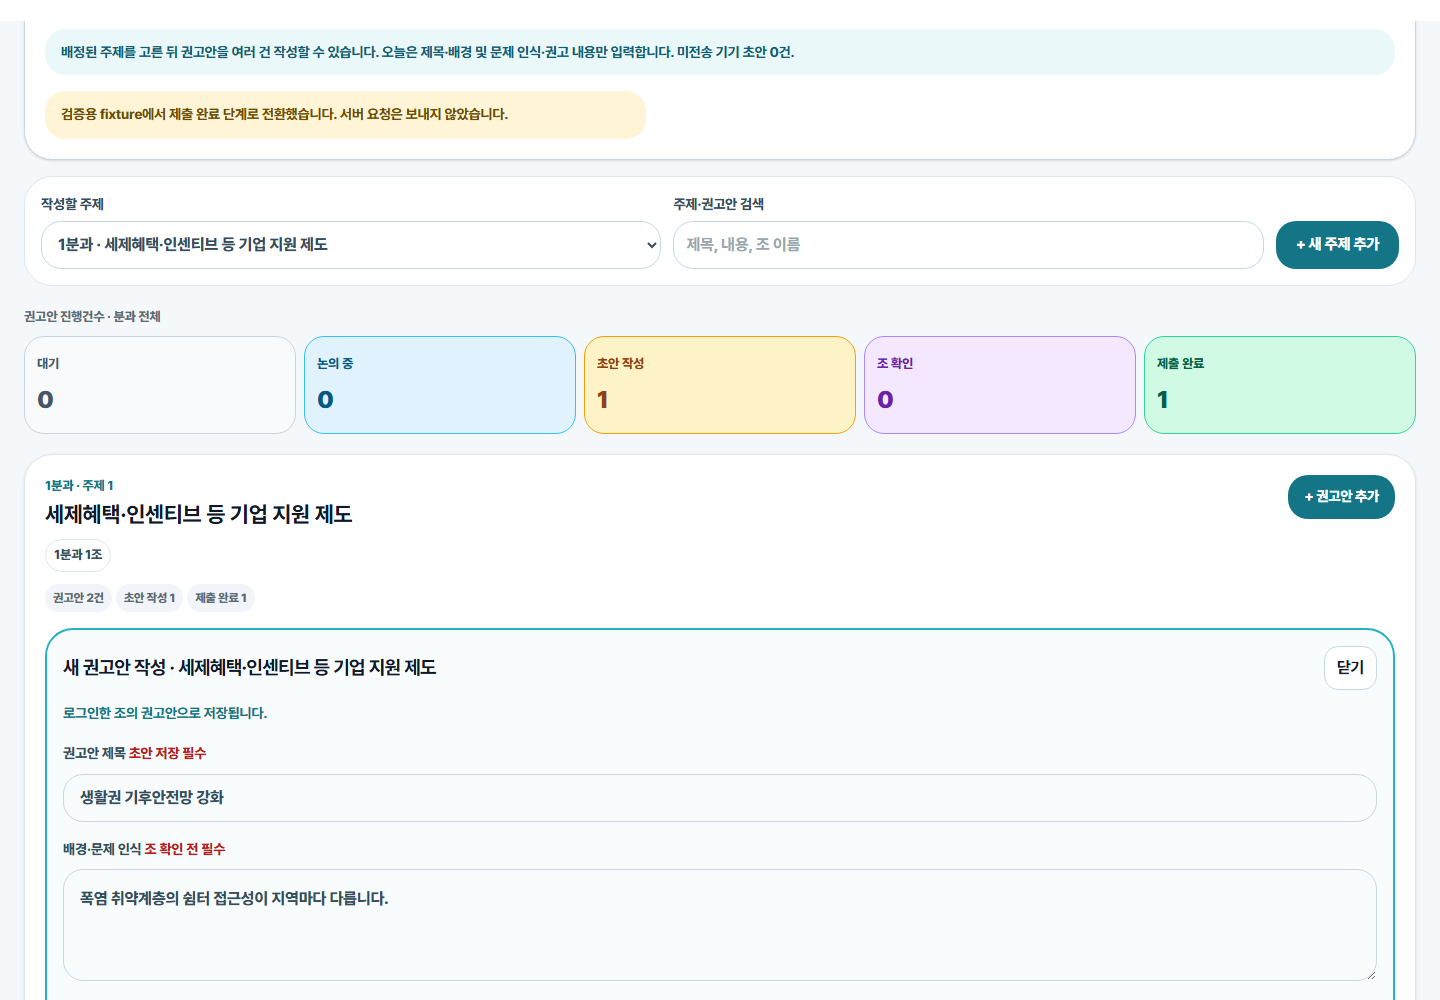
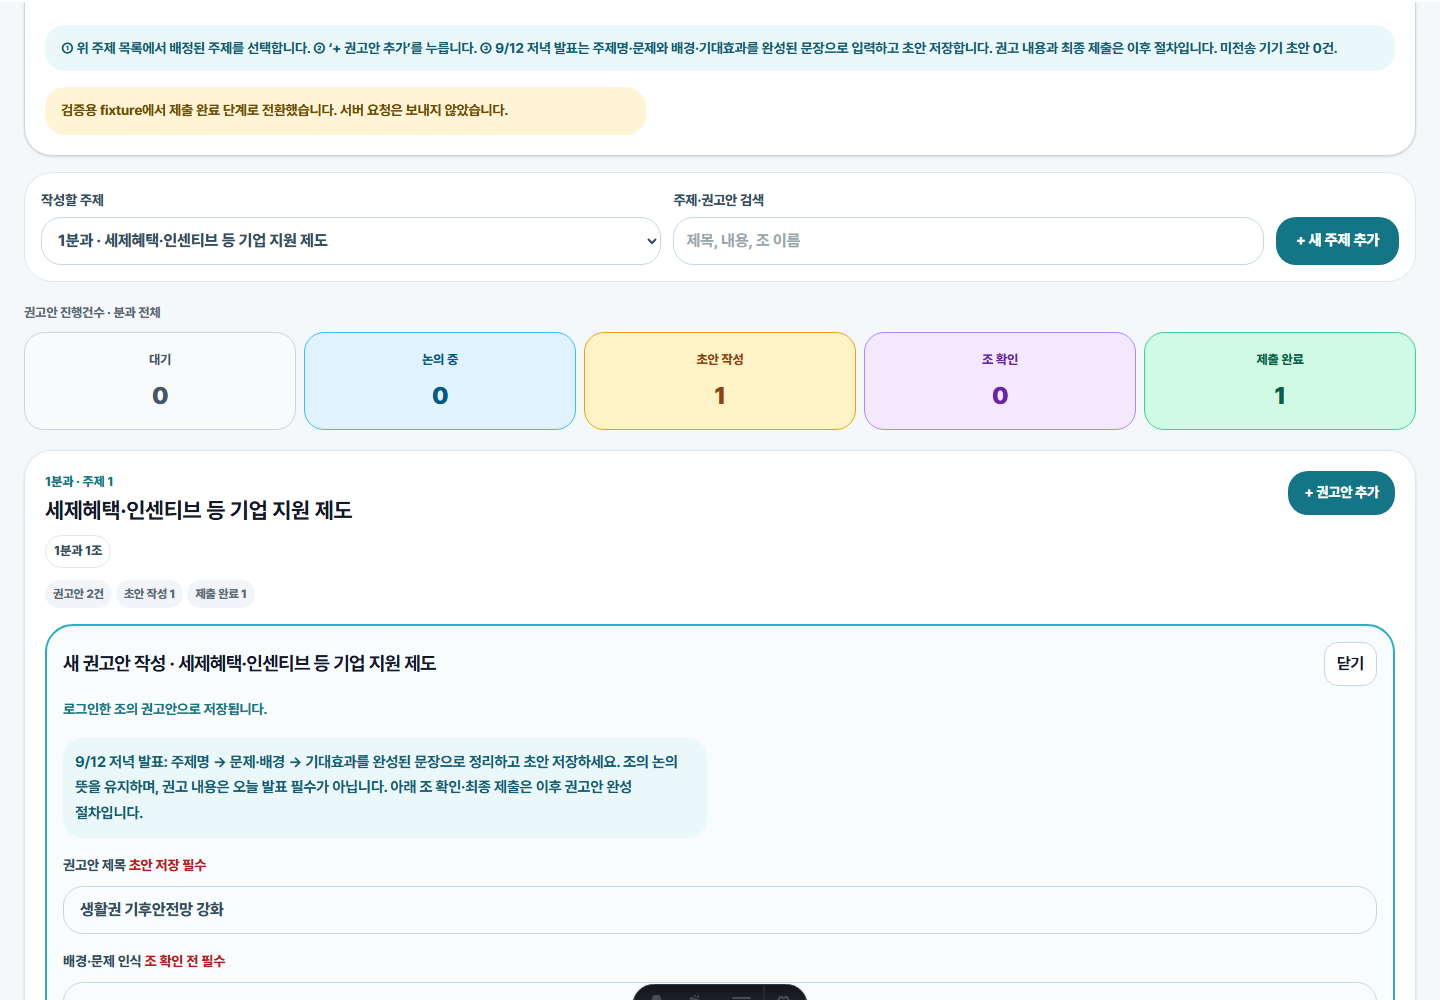
feat: align first division evening presentation authoring

diff --git a/src/islands/mod/AgendaProgressBoard.tsx b/src/islands/mod/AgendaProgressBoard.tsx
@@ -39,6 +39,7 @@ import {
   recommendationMatchesSearch,
   recommendationProgressBlockMessage,
   recommendationSaveLabel,
+  recommendationExpectedEffect,
   similarAgendaTitles,
   statusCounts,
   subgroupSortKey,
@@ -96,7 +97,7 @@ function displayAgendaOrdinal(agendas: AgendaBoardItem[], agenda: AgendaBoardIte
 
 // The first-division presentation follows the facilitator's confirmed speaking order.
 // The numbers refer to topic ordinals, not team numbers.
-const FIRST_DIVISION_PRESENTATION_ORDER = [1, 6, 3, 4, 8, 7] as const;
+const FIRST_DIVISION_PRESENTATION_ORDER = [6, 3, 4, 8, 7, 5] as const;
 
 function presentationRank(
   agenda: AgendaBoardItem,
@@ -145,6 +146,7 @@ function readLocalDraft(key: string): RecommendationDraft | null {
       title: candidate.title,
       problemRecognition: candidate.problemRecognition,
       recommendationContent: candidate.recommendationContent,
+      ...(typeof candidate.expectedEffect === 'string' ? { expectedEffect: candidate.expectedEffect } : {}),
     };
   } catch (error) {
     console.warn('[recommendation board] local draft read failed', error);
@@ -248,15 +250,18 @@ function RecommendationFields({
   value,
   disabled,
   prefix,
+  subgroup,
   onChange,
 }: {
   value: RecommendationDraft;
   disabled?: boolean;
   prefix: string;
+  subgroup: string;
   onChange: (next: RecommendationDraft) => void;
 }) {
   return (
     <div className="grid gap-4">
+      {subgroup === '1분과' ? <p className="rounded-xl bg-[#EAF8FA] p-3 text-[15px] font-bold text-[#135C73]">9/12 저녁 발표: 주제명 → 문제·배경 → 기대효과를 완성된 문장으로 정리하고 초안 저장하세요. 조의 논의 뜻을 유지하며, 권고 내용은 오늘 발표 필수가 아닙니다. 아래 조 확인·최종 제출은 이후 권고안 완성 절차입니다.</p> : null}
       <label className="text-[14px] font-extrabold text-[#334E5C]">
         권고안 제목 <span className="text-[#B91C1C]">초안 저장 필수</span>
         <input
@@ -280,8 +285,16 @@ function RecommendationFields({
           className="mt-2 w-full rounded-xl border border-[#C4D8E4] p-4 text-[16px] leading-relaxed disabled:bg-[#F1F5F9]"
         />
       </label>
+      {subgroup === '1분과' ? <label className="text-[14px] font-extrabold text-[#334E5C]">
+        기대효과 · 완성된 문장
+        <textarea aria-label={`${prefix} 기대효과`} rows={4} maxLength={8000}
+          value={value.expectedEffect ?? ''} disabled={disabled}
+          onChange={(event) => onChange({ ...value, expectedEffect: event.target.value })}
+          placeholder="이 주제가 실현되면 어떤 상태가 되는지 문장으로 적어 주세요."
+          className="mt-2 w-full rounded-xl border border-[#C4D8E4] p-4 text-[16px] leading-relaxed disabled:bg-[#F1F5F9]" />
+      </label> : null}
       <label className="text-[14px] font-extrabold text-[#334E5C]">
-        권고 내용 <span className="text-[#B91C1C]">조 확인 전 필수</span>
+        권고 내용 <span className="text-[#B91C1C]">{subgroup === '1분과' ? '오늘 발표 선택 · 최종 조 확인 전 필수' : '조 확인 전 필수'}</span>
         <textarea
           aria-label={`${prefix} 권고 내용`}
           rows={5}
@@ -331,7 +344,7 @@ function ProjectorView({ item, displayOrdinal, onClose }: { item: AgendaBoardIte
                 <div className="mt-4 space-y-3 text-[20px] leading-[1.55]">
                   <div><p className="font-black text-[#137586]">배경·문제 인식</p><p className="whitespace-pre-wrap font-semibold">{recommendation.problemRecognition || '작성 중'}</p></div>
                   <div><p className="font-black text-[#137586]">기대효과</p><p className="whitespace-pre-wrap font-semibold">{recommendation.expectedEffect || '아직 입력되지 않았습니다.'}</p></div>
-                  <div><p className="font-black text-[#137586]">권고 내용</p><p className="whitespace-pre-wrap font-semibold">{recommendation.recommendationContent || '작성 중'}</p></div>
+                  {item.subgroup !== '1분과' ? <div><p className="font-black text-[#137586]">권고 내용</p><p className="whitespace-pre-wrap font-semibold">{recommendation.recommendationContent || '작성 중'}</p></div> : null}
                 </div>
               </article>
             ))}
@@ -379,7 +392,11 @@ function DivisionProjectorView({
           <p className="text-[22px] font-extrabold text-[#137586]">9/12–13 시민참여단 워크숍</p>
           <h2 className="mt-2 text-[38px] font-black leading-tight sm:text-[54px]">{division} 권고안 진행상황</h2>
           <p className="mt-2 text-[20px] font-bold text-[#5A6B73]">주제 {agendas.length}개 · 권고안 {recommendationCount}건 · {page + 1}/{pageCount}쪽</p>
-          {division === '1분과' ? <p className="mt-2 text-[18px] font-black text-[#137586]">발표 순서: 주제 1 → 6 → 3 → 4 → 8 → 7 · 이후 나머지 주제</p> : null}
+          {division === '1분과' ? <div className="mt-2 space-y-2 text-[18px] font-black text-[#137586]">
+            <p>9/12 저녁 공유: 1조 6번 + 새 주제 1개 · 2조 3번 + 새 주제 1개 · 3조 4번 + 새 주제 1개 · 4조 8번 + 새 주제 1개 · 5조 7번·5번</p>
+            <p>19:20–19:40 조 내 공유·발표자 선정 · 19:40–19:50 조별 2분 공유 · 19:50–20:00 내일 안내·폐회</p>
+            <p>주제명 → 문제·배경 문장 → 기대효과 문장 읽기 · 두 주제를 합쳐 조별 2분</p>
+          </div> : null}
         </div>
         <div className="flex shrink-0 flex-wrap justify-end gap-2">
           <button type="button" onClick={() => setPage((current) => Math.max(0, current - 1))} disabled={page === 0} className="min-h-12 rounded-xl border-2 border-[#1F4E79] bg-white px-4 text-[17px] font-extrabold text-[#1F4E79] disabled:cursor-not-allowed disabled:opacity-40">이전</button>
@@ -415,7 +432,7 @@ function DivisionProjectorView({
                     <div className="mt-3 space-y-2 text-[16px] leading-relaxed">
                       <div><p className="font-black text-[#137586]">배경·문제 인식</p><p className="whitespace-pre-wrap font-semibold">{recommendation.problemRecognition || '작성 중'}</p></div>
                       <div><p className="font-black text-[#137586]">기대효과</p><p className="whitespace-pre-wrap font-semibold">{recommendation.expectedEffect || '아직 입력되지 않았습니다.'}</p></div>
-                      <div><p className="font-black text-[#137586]">권고 내용</p><p className="whitespace-pre-wrap font-semibold">{recommendation.recommendationContent || '권고 내용 작성 중'}</p></div>
+                      {division !== '1분과' ? <div><p className="font-black text-[#137586]">권고 내용</p><p className="whitespace-pre-wrap font-semibold">{recommendation.recommendationContent || '권고 내용 작성 중'}</p></div> : null}
                     </div>
                   </article>
                 ))}
@@ -795,12 +812,12 @@ export default function AgendaProgressBoard({
       agendaId: agenda.id,
       teamId: recommendationTeamId,
       draft: newRecommendation,
-      expectedEffect: null,
+      expectedEffect: recommendationExpectedEffect(newRecommendation, null),
       topicId,
     };
     const saved = await runMutation(key, mutationPayloadFingerprint(snapshot), (requestId) => createRecommendation({
       token: token ?? '', agendaId: agenda.id, teamId: recommendationTeamId,
-      draft: newRecommendation, topicId, requestId,
+      draft: newRecommendation, expectedEffect: recommendationExpectedEffect(newRecommendation, null), topicId, requestId,
     }));
     if (saved) {
       setNewRecommendation({ ...EMPTY_RECOMMENDATION_DRAFT });
@@ -815,6 +832,7 @@ export default function AgendaProgressBoard({
       title: recommendation.title,
       problemRecognition: recommendation.problemRecognition,
       recommendationContent: recommendation.recommendationContent,
+      expectedEffect: recommendation.expectedEffect ?? '',
     }
   );
 
@@ -838,7 +856,7 @@ export default function AgendaProgressBoard({
       const nextStatus = nextAgendaStatus(
         recommendation.status,
         'save',
-        hasRecommendationContent(draft),
+        Boolean(draft.title.trim()),
       );
       if (!nextStatus) {
         setMessage('현재 단계에서는 초안을 저장할 수 없습니다.');
@@ -883,13 +901,13 @@ export default function AgendaProgressBoard({
     const snapshot = {
       recommendationId: recommendation.id,
       draft,
-      expectedEffect: recommendation.expectedEffect,
+      expectedEffect: recommendationExpectedEffect(draft, recommendation.expectedEffect),
       expectedVersion,
       topicId,
     };
     const saved = await runMutation(key, mutationPayloadFingerprint(snapshot), (requestId) => reviseRecommendation({
       token: token ?? '', recommendationId: recommendation.id, draft,
-      expectedEffect: recommendation.expectedEffect,
+      expectedEffect: recommendationExpectedEffect(draft, recommendation.expectedEffect),
       expectedVersion,
       topicId,
       requestId,
@@ -1013,7 +1031,7 @@ export default function AgendaProgressBoard({
           </div>
           <div className="mt-4 rounded-xl bg-[#EAF8FA] px-4 py-3 text-[14px] font-bold leading-relaxed text-[#135C73]">
             {mode === 'team'
-              ? `① 위 주제 목록에서 배정된 주제를 선택합니다. ② ‘+ 권고안 추가’를 누릅니다. ③ 제목·배경 및 문제 인식·권고 내용을 입력한 뒤 ‘새 권고안 저장’을 누릅니다. 오늘은 이 세 항목만 작성합니다. 미전송 기기 초안 ${unsentCount}건.`
+              ? `① 위 주제 목록에서 배정된 주제를 선택합니다. ② ‘+ 권고안 추가’를 누릅니다. ③ ${subgroup === '1분과' ? '9/12 저녁 발표는 주제명·문제와 배경·기대효과를 완성된 문장으로 입력하고 초안 저장합니다. 권고 내용과 최종 제출은 이후 절차입니다.' : '제목·배경 및 문제 인식·권고 내용을 입력한 뒤 ‘새 권고안 저장’을 누릅니다. 오늘은 이 세 항목만 작성합니다.'} 미전송 기기 초안 ${unsentCount}건.`
               : '진행상태는 주제가 아니라 각 조의 권고안별로 집계됩니다. 권고안은 삭제하지 않고 이력을 남깁니다.'}
           </div>
           {payload && !topicWritesEnabled ? (
@@ -1237,7 +1255,7 @@ export default function AgendaProgressBoard({
                         </select>
                       </label>
                     ) : <p className="mt-3 text-[14px] font-bold text-[#137586]">로그인한 조의 권고안으로 저장됩니다.</p>}
-                    <div className="mt-4"><RecommendationFields value={newRecommendation} disabled={!topicWritesEnabled || recommendationCreatePending} prefix="새 권고안" onChange={setNewRecommendation} /></div>
+                    <div className="mt-4"><RecommendationFields subgroup={agenda.subgroup} value={newRecommendation} disabled={!topicWritesEnabled || recommendationCreatePending} prefix="새 권고안" onChange={setNewRecommendation} /></div>
                     <div className="mt-4 flex justify-end">
                       <button type="button" disabled={!topicWritesEnabled || busyKey === recommendationCreateKey} onClick={() => void submitRecommendation(agenda)} className="min-h-12 rounded-xl bg-[#1F4E79] px-6 font-extrabold text-white disabled:opacity-50">{recommendationCreatePending ? '같은 내용으로 다시 확인' : '새 권고안 저장'}</button>
                     </div>
@@ -1298,9 +1316,9 @@ export default function AgendaProgressBoard({
                             <span className="ml-auto text-[13px] font-bold text-[#64748B]">서버 갱신 {formatUpdatedAt(recommendation.updatedAt)} · 수정이력 {recommendation.revisionCount}건{dirty[recommendation.id] ? ' · 기기 초안 미전송' : ''}</span>
                           </div>
                           <div className="mt-4">
-                            <RecommendationFields value={draft} disabled={!baseEditable || hasPendingMutation} prefix={`${recommendation.authorTeamName} 권고안 ${recommendation.sortOrder}`} onChange={(next) => updateDraft(recommendation, next)} />
+                            <RecommendationFields subgroup={agenda.subgroup} value={{ ...draft, expectedEffect: draft.expectedEffect ?? recommendation.expectedEffect ?? '' }} disabled={!baseEditable || hasPendingMutation} prefix={`${recommendation.authorTeamName} 권고안 ${recommendation.sortOrder}`} onChange={(next) => updateDraft(recommendation, next)} />
                           </div>
-                          {recommendation.expectedEffect ? (
+                          {agenda.subgroup !== '1분과' && recommendation.expectedEffect ? (
                             <details className="mt-4 rounded-xl border border-[#DCE7EE] bg-[#F8FAFC] p-3">
                               <summary className="cursor-pointer text-[14px] font-extrabold text-[#475569]">기존 기대효과 보기 · 지금은 입력하지 않음</summary>
                               <p className="mt-2 whitespace-pre-wrap text-[14px] leading-relaxed text-[#475569]">{recommendation.expectedEffect}</p>

diff --git a/src/islands/mod/agenda-progress-logic.test.ts b/src/islands/mod/agenda-progress-logic.test.ts
@@ -22,11 +22,33 @@ import {
   isWorkflowStageConflictMessage,
   recommendationProgressBlockMessage,
   recommendationSaveLabel,
+  recommendationExpectedEffect,
   similarAgendaTitles,
   statusCounts,
   subgroupSortKey,
   withoutRecordKey,
 } from './agenda-progress-logic';
+
+describe('evening expected-effect draft compatibility', () => {
+  const draft = { title: '주제', problemRecognition: '문제입니다.', recommendationContent: '' };
+  it('preserves the server effect when restoring an older draft', () => {
+    expect(recommendationExpectedEffect(draft, '기존 문장')).toBe('기존 문장');
+  });
+  it('saves a new sentence independently of recommendation content', () => {
+    expect(recommendationExpectedEffect({ ...draft, expectedEffect: ' 변화합니다. ' }, null)).toBe('변화합니다.');
+    expect(hasRecommendationContent({ ...draft, expectedEffect: '변화합니다.' })).toBe(false);
+  });
+  it('distinguishes an intentional blank from a legacy missing field', () => {
+    expect(recommendationExpectedEffect({ ...draft, expectedEffect: '' }, '기존 문장')).toBeNull();
+  });
+  it('restores the expected-effect sentence from serialized pending forms', () => {
+    const state = { ...emptyAgendaBoardPendingState('1분과'), recommendationForm: {
+      open: true, agendaId: 'agenda-1', teamId: 'team-1',
+      draft: { ...draft, expectedEffect: '누구나 안전한 생활을 누릴 수 있습니다.' },
+    } };
+    expect(parseAgendaBoardPendingState(JSON.stringify(state), '1분과').recommendationForm).toEqual(state.recommendationForm);
+  });
+});
 
 describe('agenda progress status', () => {
   it('follows the five visible steps', () => {

diff --git a/public/mod-help/agenda-progress/index.html b/public/mod-help/agenda-progress/index.html
@@ -24,7 +24,7 @@
 <body>
 <main>
   <nav class="topnav"><a class="back" href="/mod-help/">← 사용 가이드</a><div><a class="link" href="#schedule">오늘 일정</a><a class="link" href="#record">기록모더 안내</a><a class="link" href="#hq">HQ 안내</a></div></nav>
-  <header><p class="eyebrow">9/12–13 현장용</p><h1>권고안 작성·진행상황판 사용 가이드</h1><p>기록모더레이터는 자기 조 권고안 카드를 작성하고 HQ는 모든 분과를 확인·지원합니다. 오늘은 권고 제목, 배경·문제 인식, 권고 내용까지만 입력합니다.</p></header>
+  <header><p class="eyebrow">9/12–13 현장용</p><h1>권고안 작성·진행상황판 사용 가이드</h1><p>기록모더레이터는 자기 조 권고안 카드를 작성하고 HQ는 모든 분과를 확인·지원합니다. 1분과의 9/12 저녁 발표는 주제명, 문제·배경, 기대효과를 완성된 문장으로 정리하고 초안 저장합니다. 권고 내용은 오늘 발표 필수가 아니며 조 확인·최종 제출은 이후 권고안 완성 절차입니다. 2·3분과는 기존 작성 기준과 각 분과 진행 안내를 따릅니다.</p></header>
   <section class="rules" aria-label="핵심 원칙"><div class="rule"><b>의제 수</b><span>1분과 9개 · 2분과 8개 · 3분과 8개</span></div><div class="rule"><b>카드 단위</b><span>권고제목 하나마다 권고안 카드 한 장</span></div><div class="rule"><b>작성 범위</b><span>제목 · 문제인식 · 권고내용까지만</span></div></section>
 
   <section id="schedule" class="guide">

diff --git a/src/islands/mod/agenda-progress-logic.ts b/src/islands/mod/agenda-progress-logic.ts
@@ -69,7 +69,16 @@ export type RecommendationDraft = {
   title: string;
   problemRecognition: string;
   recommendationContent: string;
+  // Missing on drafts saved before the evening-presentation editor existed.
+  expectedEffect?: string;
 };
+
+export function recommendationExpectedEffect(
+  draft: RecommendationDraft,
+  serverValue: string | null,
+): string | null {
+  return draft.expectedEffect === undefined ? serverValue : draft.expectedEffect.trim() || null;
+}
 
 export type PendingAgendaForm = {
   open: boolean;
@@ -131,7 +140,8 @@ function isRecommendationDraft(value: unknown): value is RecommendationDraft {
   const candidate = value as Record<string, unknown>;
   return typeof candidate.title === 'string'
     && typeof candidate.problemRecognition === 'string'
-    && typeof candidate.recommendationContent === 'string';
+    && typeof candidate.recommendationContent === 'string'
+    && (candidate.expectedEffect === undefined || typeof candidate.expectedEffect === 'string');
 }
 
 export function parseAgendaBoardPendingState(

diff --git a/src/lib/agenda-progress.ts b/src/lib/agenda-progress.ts
@@ -46,7 +46,7 @@ export type RecommendationProgress = {
   actorLabel: string | null;
 };
 
-export type AgendaRecommendation = RecommendationDraft & {
+export type AgendaRecommendation = Omit<RecommendationDraft, 'expectedEffect'> & {
   id: string;
   authorTeamId: string;
   authorTeamName: string;

diff --git a/evaluation/0912-agenda-progress-board/evening-presentation-20260912.md b/evaluation/0912-agenda-progress-board/evening-presentation-20260912.md
@@ -1,0 +1,28 @@
+# 1분과 9/12 저녁 발표 반영
+
+## 사용자 확정 기준
+
+- 1분과만 주제명 → 문제·배경 → 기대효과를 완성된 문장으로 기록하고 읽는다. 논의에 없는 내용을 자동 생성하지 않는다.
+- 1조 6번, 2조 3번, 3조 4번, 4조 8번과 각 조의 새 주제 1개. 5조는 7번·5번.
+- 19:20–19:40 조 내 공유·발표자 선정, 19:40–19:50 조별 두 주제를 합쳐 2분 발표, 19:50–20:00 내일 안내·폐회.
+- 새 주제의 실제 문안은 조가 작성한다. 임의 주제·권고안 레코드는 만들지 않았다.
+
+## 변경 및 보존
+
+- 1분과 기대효과 입력을 기존 create/revise RPC의 expected_effect에 연결했다. 새 폼·수정·재전송 스냅샷·로컬 초안에 문장을 보존한다.
+- 이전 초안에 기대효과 필드가 없으면 기존 서버값을 유지한다. 명시적으로 비운 값과 구분한다.
+- 1분과 송출은 기대효과까지만 표시한다. 기존 권고 내용을 삭제하지 않는다. 발표 주제·시간 안내를 추가했다.
+- 2·3분과 입력, DB 스키마, 권한, 최종 조 확인의 필수값은 변경하지 않았다. 오늘 발표 초안 저장과 최종 제출을 구분해 안내한다.
+- 기존 fixture의 초안 저장 조건을 서버와 같이 제목 필수로 맞췄다. 조 확인에는 기존 세 필수값 검사를 유지한다.
+
+## 검증
+
+- 브라우저 fixture 42건 통과. 외부 HTTP 차단·WebSocket 차단, 운영 DB 요청 0건. 기대효과 저장 후 되읽기, 권고 내용 없이 초안 저장, 타 분과 입력 유지, 5단계·송출 확인.
+- 전체 단위검사 128개 파일, 2256건 통과. 이후 추가한 초안 복원 검사를 포함한 관련 검사 32건 통과.
+- 미전송 새 폼의 기대효과 직렬화·복원은 순수 함수 검사로 검증했다. fixture는 의도적으로 브라우저 재시작 복원을 꺼 두므로 브라우저 새로고침 검증으로 주장하지 않는다.
+- 코드 검수: 입력 중 공백을 자르지 않고 저장 시에만 정리하도록 수정. null 서버값과 이전 초안의 누락값 호환 확인. 인증·DB 변경 없음.
+- 화면 증빙: browser-fixture-report.json, team-recommendation-authoring.png. 타입검사 523파일 오류 0건. 로컬 실행 로그: evening-typecheck.log.
+
+## 배포
+
+타입검사 및 배포 확인 결과는 후속 갱신한다.
